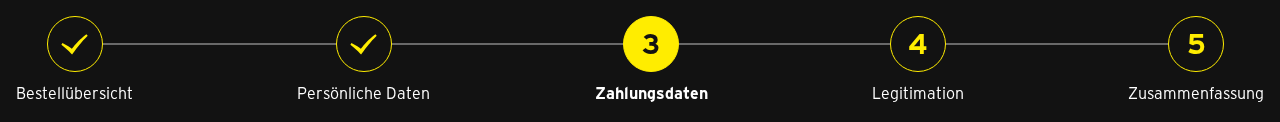
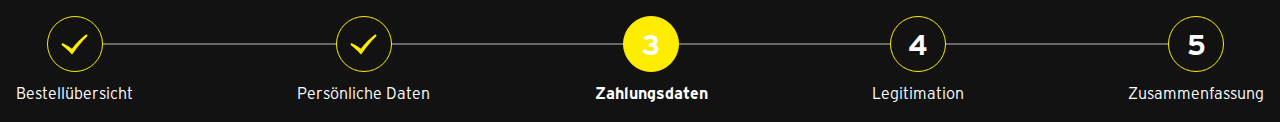
fix(stepper): restore original indicator visuals

diff --git a/dek/packages/react/src/components/Stepper/shared/Stepper.styles.ts b/dek/packages/react/src/components/Stepper/shared/Stepper.styles.ts
@@ -14,56 +14,16 @@ import {
 } from "./mappings";
 import { trimFont } from "../../../theme/mappings/typography";
 import { up } from "../../../theme/mappings/mediaBreakpoints";
+import { TypographyVariant } from "../../Typography/Typography";
 import { ConvertToTransient } from "../../propTypes";
 import { backgroundColorMapping } from "../../../theme/theme";
 
 const COUNTER_NAME = "stepper";
 
-export const IndicatorShell = styled.div<
-  ConvertToTransient<Omit<StepperIndicatorProps, "step">, "state" | "checkout"> & {
-    $size?: StepperSize;
-    "data-step"?: string;
-  }
->(({ theme, $size, $checkout, "data-step": dataStep }) => {
-  return css`
-    position: relative;
-    display: inline-block;
-
-    &::after {
-      content: ${dataStep ? "attr(data-step)" : "none"};
-      position: absolute;
-      inset: 0;
-      display: flex;
-      align-items: center;
-      justify-content: center;
-      pointer-events: none;
-      ${getIndicatorTextStyles(theme, $size, $checkout)}
-    }
-  `;
-});
-
-const getIndicatorTextStyles = (
-  theme: DefaultTheme,
-  size: StepperSize | undefined,
-  checkout: boolean | undefined,
-) => {
-  const fontMapForBrand = itemFontMap[theme.contextSpecific.brand];
-  const mediumFont = checkout
-    ? fontMapForBrand["large"]
-    : fontMapForBrand[size || "medium"];
-  const largeFont = checkout
-    ? fontMapForBrand["extraLarge"]
-    : fontMapForBrand[size || "large"];
-
-  return css`
-    font: ${theme.typography[mediumFont]};
-    ${trimFont(mediumFont)};
-    ${up("md")} {
-      font: ${theme.typography[largeFont]};
-      ${trimFont(largeFont)};
-    }
-  `;
-};
+export const IndicatorShell = styled.div`
+  position: relative;
+  display: inline-block;
+`;
 
 export const StepperList = styled.ul<StepperRootProps>(
   () => css`
@@ -186,3 +146,47 @@ export const StyledContent = styled.div`
   display: flex;
   flex-direction: column;
 `;
+
+export const generateStepTextStyle = (
+  theme: DefaultTheme,
+  mediumFont: TypographyVariant,
+  largeFont: TypographyVariant,
+) => {
+  return css`
+    all: unset;
+    font: ${theme.typography[mediumFont]};
+    ${trimFont(mediumFont)};
+    ${up("md")} {
+      font: ${theme.typography[largeFont]};
+      ${trimFont(largeFont)};
+    }
+  `;
+};
+
+export const IndicatorText = styled.span<{
+  $size?: StepperSize;
+  $checkout?: boolean;
+}>(({ theme, $size, $checkout }) => {
+  const fontMapForBrand = itemFontMap[theme.contextSpecific.brand];
+
+  return css`
+    all: unset;
+    ${$checkout
+      ? generateStepTextStyle(
+          theme,
+          fontMapForBrand["large"],
+          fontMapForBrand["extraLarge"],
+        )
+      : generateStepTextStyle(
+          theme,
+          fontMapForBrand[$size || "medium"],
+          fontMapForBrand[$size || "large"],
+        )}
+    position: absolute;
+    inset: 0;
+    display: flex;
+    align-items: center;
+    justify-content: center;
+    pointer-events: none;
+  `;
+});

diff --git a/dek/packages/react/src/components/Stepper/shared/Stepper.tsx b/dek/packages/react/src/components/Stepper/shared/Stepper.tsx
@@ -47,14 +47,7 @@ const Indicator = forwardRef<
 >(({ state, step, checkout, ...rest }, ref) => {
   const { size } = useContext(StepperContext);
   return (
-    <Styled.IndicatorShell
-      $size={size}
-      $state={state}
-      $checkout={checkout}
-      data-step={
-        state === "open" || state === "current" ? String(step) : undefined
-      }
-    >
+    <Styled.IndicatorShell>
       <Styled.StepperIndicator
         ref={ref}
         $size={size}
@@ -66,6 +59,16 @@ const Indicator = forwardRef<
         {state === "error" && <Cross aria-hidden="true" />}
         {state === "pending" && <Clock aria-hidden="true" />}
       </Styled.StepperIndicator>
+      {(state === "open" || state === "current") && (
+        <Styled.IndicatorText
+          $size={size}
+          $checkout={checkout}
+          aria-hidden="true"
+          inert
+        >
+          {step}
+        </Styled.IndicatorText>
+      )}
     </Styled.IndicatorShell>
   );
 });

diff --git a/dek/packages/react/src/components/Stepper/StepperVertical/StepperVertical.tsx b/dek/packages/react/src/components/Stepper/StepperVertical/StepperVertical.tsx
@@ -102,8 +102,8 @@ export const Item = forwardRef<
       <StepperItemContext.Provider value={props}>
         <Stepper.Indicator
           state={state}
-          role="img"
-          aria-label={ariaLabel}
+          role="presentation"
+          aria-hidden="true"
           step={(step?.index ?? 0) + 1}
         />
         {content}
